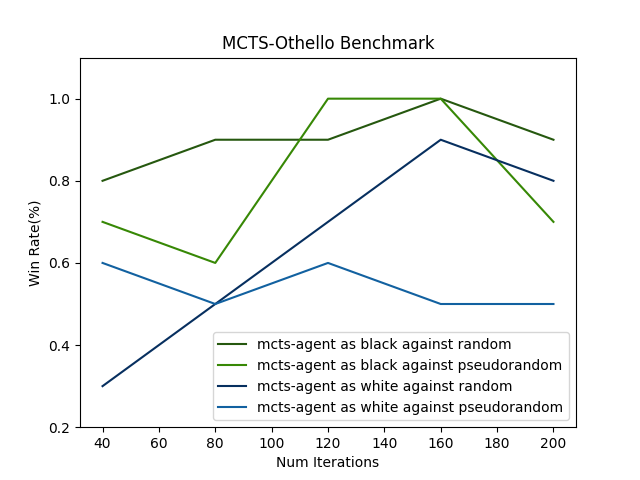
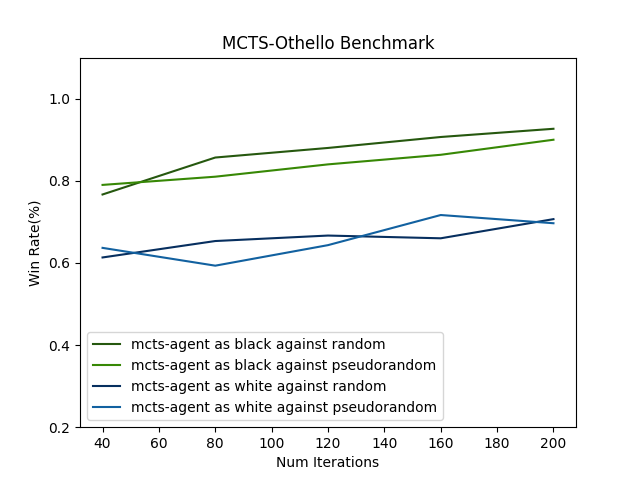
300 test iterations

diff --git a/benchmark.py b/benchmark.py
@@ -12,7 +12,7 @@ matplotlib.use("agg")
 import matplotlib.pyplot as plt
 
 
-TEST_AMOUNT = 10
+TEST_AMOUNT = 300
 NUM_ITERATIONS = [40, 80, 120, 160, 200]
 
 

diff --git a/README.md b/README.md
@@ -11,5 +11,6 @@ We implement Othello Game-Playing AI, using MCTS algorithm.
 
 ## Result
 ![](benchmark.png)
+300 Test-Iterations
 1. Game of Othello is advantageous to the player who plays black. (Normally the convention is that Black always goes first in Othello, and the less experienced player should take this color.)
 2. `Pseudorandom Player` is heuristically coded so that it chooses moves with higher probability to those in the sides of the board. When number of iterations are small, pseudorandom player indeed plays better than random player who randomly chooses moves. This can be shown from the fact that it is harder for MCTS agent to win against Pseudorandom player than Random Plyaer when `num_iterations` is smaller than 100.
